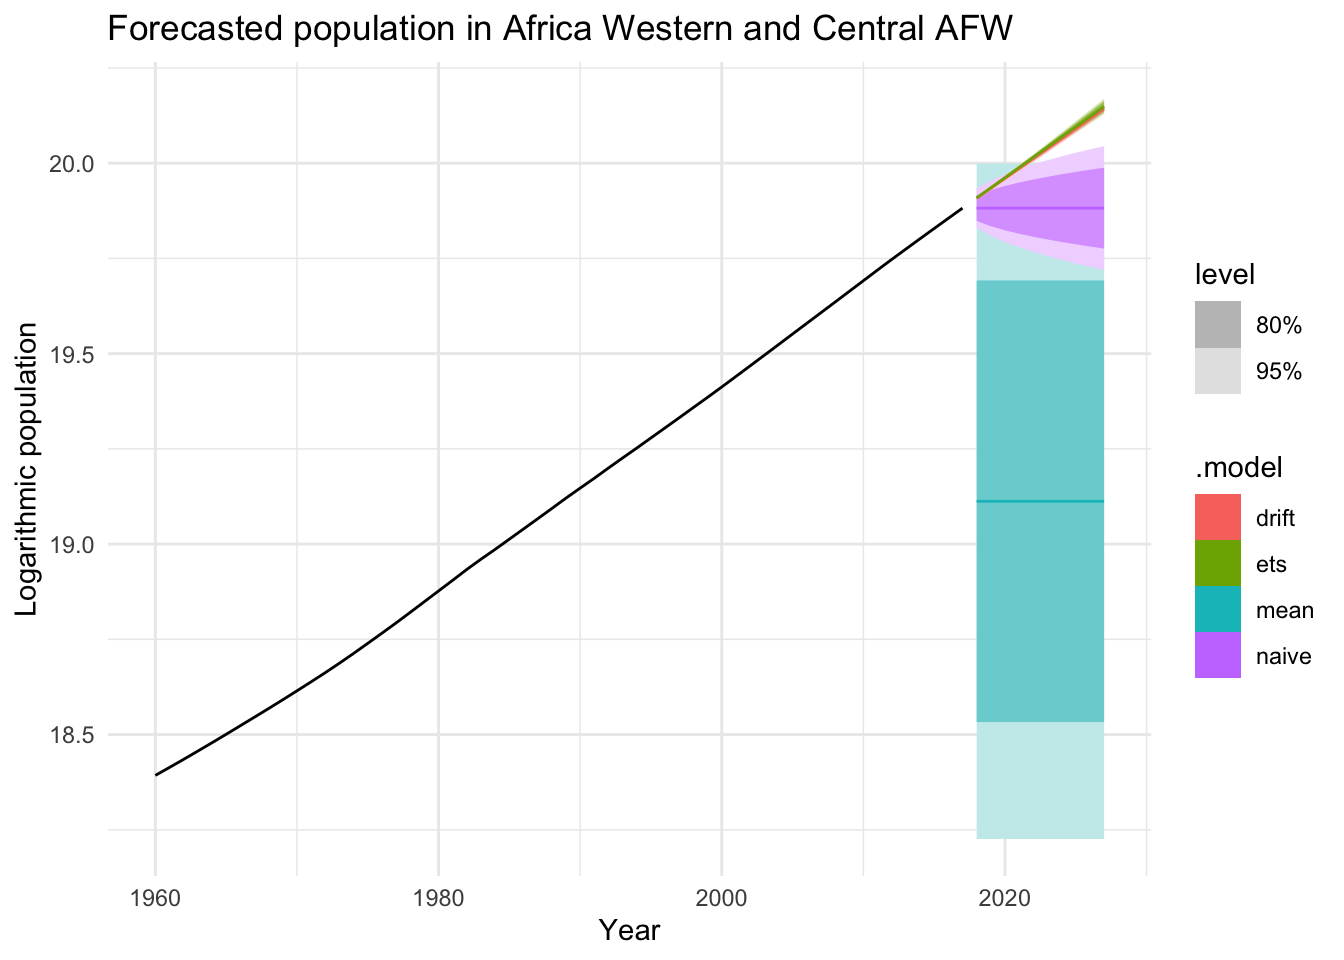
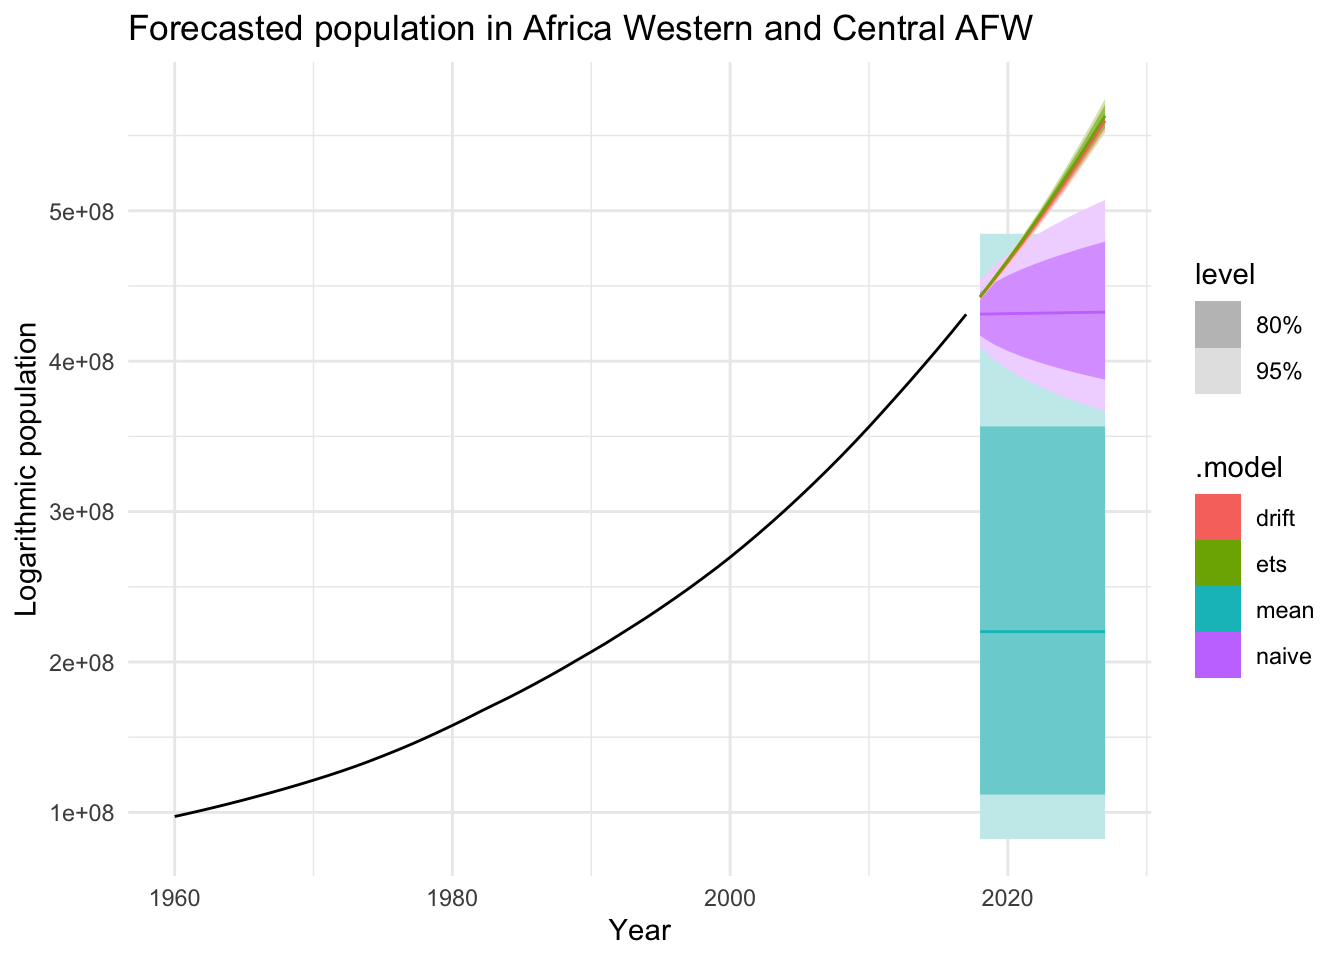
Corrections to model made

diff --git a/Assignment3_5550_Arindom_32779267.qmdqmd.html b/Assignment3_5550_Arindom_32779267.qmdqmd.html
@@ -219,10 +219,8 @@ Key takeaway
 <div class="cell">
 <details>
 <summary>Code</summary>
-<div class="sourceCode cell-code" id="cb4"><pre class="sourceCode r code-with-copy"><code class="sourceCode r"><span id="cb4-1"><a href="#cb4-1" aria-hidden="true" tabindex="-1"></a>pop_log <span class="ot">&lt;-</span> pop <span class="sc">%&gt;%</span> <span class="fu">mutate</span>(<span class="at">Log_population =</span> <span class="fu">log</span>(Population))</span>
-<span id="cb4-2"><a href="#cb4-2" aria-hidden="true" tabindex="-1"></a></span>
-<span id="cb4-3"><a href="#cb4-3" aria-hidden="true" tabindex="-1"></a>pop_log <span class="sc">%&gt;%</span> <span class="fu">autoplot</span>(Log_population) <span class="sc">+</span> <span class="fu">theme_minimal</span>() <span class="sc">+</span> </span>
-<span id="cb4-4"><a href="#cb4-4" aria-hidden="true" tabindex="-1"></a>  <span class="fu">labs</span>(<span class="at">title =</span> <span class="st">"Logarithmic population growth in Africa Western and Central AFW"</span>,<span class="at">y =</span> <span class="st">"Log of population"</span>)</span></code><button title="Copy to Clipboard" class="code-copy-button"><i class="bi"></i></button></pre></div>
+<div class="sourceCode cell-code" id="cb4"><pre class="sourceCode r code-with-copy"><code class="sourceCode r"><span id="cb4-1"><a href="#cb4-1" aria-hidden="true" tabindex="-1"></a>pop <span class="sc">%&gt;%</span> <span class="fu">autoplot</span>(<span class="fu">log</span>(Population)) <span class="sc">+</span> <span class="fu">theme_minimal</span>() <span class="sc">+</span> </span>
+<span id="cb4-2"><a href="#cb4-2" aria-hidden="true" tabindex="-1"></a>  <span class="fu">labs</span>(<span class="at">title =</span> <span class="st">"Logarithmic population growth in Africa Western and Central AFW"</span>,<span class="at">y =</span> <span class="st">"Log of population"</span>)</span></code><button title="Copy to Clipboard" class="code-copy-button"><i class="bi"></i></button></pre></div>
 </details>
 <div class="cell-output-display">
 <div id="fig-totpoplog" class="quarto-figure quarto-figure-center anchored">
@@ -242,8 +240,8 @@ Key takeaway
 <div class="cell">
 <details>
 <summary>Code</summary>
-<div class="sourceCode cell-code" id="cb5"><pre class="sourceCode r code-with-copy"><code class="sourceCode r"><span id="cb5-1"><a href="#cb5-1" aria-hidden="true" tabindex="-1"></a>pop_train <span class="ot">&lt;-</span> pop_log <span class="sc">%&gt;%</span> <span class="fu">filter</span>(Year <span class="sc">&lt;</span> <span class="dv">2018</span>) <span class="sc">%&gt;%</span> <span class="fu">select</span>(<span class="sc">-</span>Population) <span class="co"># Train dataset</span></span>
-<span id="cb5-2"><a href="#cb5-2" aria-hidden="true" tabindex="-1"></a>pop_test <span class="ot">&lt;-</span> pop_log <span class="sc">%&gt;%</span> <span class="fu">filter</span>(Year <span class="sc">&gt;=</span> <span class="dv">2018</span>) <span class="sc">%&gt;%</span> <span class="fu">select</span>(<span class="sc">-</span>Population) <span class="co"># Test dataset</span></span></code><button title="Copy to Clipboard" class="code-copy-button"><i class="bi"></i></button></pre></div>
+<div class="sourceCode cell-code" id="cb5"><pre class="sourceCode r code-with-copy"><code class="sourceCode r"><span id="cb5-1"><a href="#cb5-1" aria-hidden="true" tabindex="-1"></a>pop_train <span class="ot">&lt;-</span> pop <span class="sc">%&gt;%</span> <span class="fu">filter</span>(Year <span class="sc">&lt;</span> <span class="dv">2018</span>) <span class="co"># Train dataset</span></span>
+<span id="cb5-2"><a href="#cb5-2" aria-hidden="true" tabindex="-1"></a>pop_test <span class="ot">&lt;-</span> pop <span class="sc">%&gt;%</span> <span class="fu">filter</span>(Year <span class="sc">&gt;=</span> <span class="dv">2018</span>) <span class="co"># Test dataset</span></span></code><button title="Copy to Clipboard" class="code-copy-button"><i class="bi"></i></button></pre></div>
 </details>
 </div>
 <p>Now that we have transformed our data and split it based on training and testing dataset, we will utilise the benchmark models to forecast the logarithmic population growth. The models which will be used are as follows:</p>
@@ -257,10 +255,10 @@ Key takeaway
 <div class="cell">
 <details>
 <summary>Code</summary>
-<div class="sourceCode cell-code" id="cb6"><pre class="sourceCode r code-with-copy"><code class="sourceCode r"><span id="cb6-1"><a href="#cb6-1" aria-hidden="true" tabindex="-1"></a>model_fit <span class="ot">&lt;-</span> pop_train <span class="sc">%&gt;%</span> <span class="fu">model</span>(<span class="at">ets =</span> <span class="fu">ETS</span>(Log_population), <span class="co"># ETS Model</span></span>
-<span id="cb6-2"><a href="#cb6-2" aria-hidden="true" tabindex="-1"></a>                    <span class="at">naive =</span> <span class="fu">NAIVE</span>(Log_population), <span class="co"># Naïve model</span></span>
-<span id="cb6-3"><a href="#cb6-3" aria-hidden="true" tabindex="-1"></a>                    <span class="at">mean =</span> <span class="fu">MEAN</span>(Log_population), <span class="co"># Mean model</span></span>
-<span id="cb6-4"><a href="#cb6-4" aria-hidden="true" tabindex="-1"></a>                    <span class="at">drift =</span> <span class="fu">RW</span>(Log_population <span class="sc">~</span> <span class="fu">drift</span>())) <span class="co"># Drift model</span></span></code><button title="Copy to Clipboard" class="code-copy-button"><i class="bi"></i></button></pre></div>
+<div class="sourceCode cell-code" id="cb6"><pre class="sourceCode r code-with-copy"><code class="sourceCode r"><span id="cb6-1"><a href="#cb6-1" aria-hidden="true" tabindex="-1"></a>model_fit <span class="ot">&lt;-</span> pop_train <span class="sc">%&gt;%</span> <span class="fu">model</span>(<span class="at">ets =</span> <span class="fu">ETS</span>(<span class="fu">log</span>(Population)), <span class="co"># ETS Model</span></span>
+<span id="cb6-2"><a href="#cb6-2" aria-hidden="true" tabindex="-1"></a>                    <span class="at">naive =</span> <span class="fu">NAIVE</span>(<span class="fu">log</span>(Population)), <span class="co"># Naïve model</span></span>
+<span id="cb6-3"><a href="#cb6-3" aria-hidden="true" tabindex="-1"></a>                    <span class="at">mean =</span> <span class="fu">MEAN</span>(<span class="fu">log</span>(Population)), <span class="co"># Mean model</span></span>
+<span id="cb6-4"><a href="#cb6-4" aria-hidden="true" tabindex="-1"></a>                    <span class="at">drift =</span> <span class="fu">RW</span>(<span class="fu">log</span>(Population) <span class="sc">~</span> <span class="fu">drift</span>())) <span class="co"># Drift model</span></span></code><button title="Copy to Clipboard" class="code-copy-button"><i class="bi"></i></button></pre></div>
 </details>
 </div>
 <p>Once we have fitted our training data on the ETS model and the benchmark models, we will check the peformance of each of these models.</p>
@@ -291,28 +289,28 @@ Key takeaway
 <td style="text-align: left;">drift</td>
 <td style="text-align: left;">Africa Western and Central</td>
 <td style="text-align: left;">Test</td>
-<td style="text-align: right;">0.0001676</td>
+<td style="text-align: right;">73304.74</td>
 <td style="text-align: right;">-0.5</td>
 </tr>
 <tr class="even">
 <td style="text-align: left;">ets</td>
 <td style="text-align: left;">Africa Western and Central</td>
 <td style="text-align: left;">Test</td>
-<td style="text-align: right;">0.0007952</td>
+<td style="text-align: right;">360711.84</td>
 <td style="text-align: right;">-0.5</td>
 </tr>
 <tr class="odd">
 <td style="text-align: left;">naive</td>
 <td style="text-align: left;">Africa Western and Central</td>
 <td style="text-align: left;">Test</td>
-<td style="text-align: right;">0.0414338</td>
+<td style="text-align: right;">18057512.79</td>
 <td style="text-align: right;">-0.5</td>
 </tr>
 <tr class="even">
 <td style="text-align: left;">mean</td>
 <td style="text-align: left;">Africa Western and Central</td>
 <td style="text-align: left;">Test</td>
-<td style="text-align: right;">0.8089472</td>
+<td style="text-align: right;">228394880.47</td>
 <td style="text-align: right;">-0.5</td>
 </tr>
 </tbody>
@@ -360,12 +358,12 @@ Key takeaway
 <div class="sourceCode cell-code" id="cb9"><pre class="sourceCode r code-with-copy"><code class="sourceCode r"><span id="cb9-1"><a href="#cb9-1" aria-hidden="true" tabindex="-1"></a><span class="co"># ljung box test</span></span>
 <span id="cb9-2"><a href="#cb9-2" aria-hidden="true" tabindex="-1"></a></span>
 <span id="cb9-3"><a href="#cb9-3" aria-hidden="true" tabindex="-1"></a><span class="fu">augment</span>(model_fit) <span class="sc">%&gt;%</span></span>
-<span id="cb9-4"><a href="#cb9-4" aria-hidden="true" tabindex="-1"></a>  <span class="fu">features</span>(.resid,ljung_box) <span class="sc">%&gt;%</span> <span class="fu">kbl</span>()</span></code><button title="Copy to Clipboard" class="code-copy-button"><i class="bi"></i></button></pre></div>
+<span id="cb9-4"><a href="#cb9-4" aria-hidden="true" tabindex="-1"></a>  <span class="fu">features</span>(.resid,ljung_box,<span class="at">lag =</span> <span class="dv">10</span>) <span class="sc">%&gt;%</span> <span class="fu">kbl</span>() <span class="co"># Lag = 10 chosen due to non-seasonal data</span></span></code><button title="Copy to Clipboard" class="code-copy-button"><i class="bi"></i></button></pre></div>
 </details>
 <div class="cell-output-display">
 <div id="tbl-lb" class="anchored">
 <table data-quarto-postprocess="true" class="table table-sm table-striped small">
-<caption>Table&nbsp;3: Ljung-Box test results for the model residuals</caption>
+<caption>Table&nbsp;3: Ljung-Box test results with lag=10 for the model residuals</caption>
 <thead>
 <tr class="header">
 <th style="text-align: left;" data-quarto-table-cell-role="th">Country</th>
@@ -378,25 +376,25 @@ Key takeaway
 <tr class="odd">
 <td style="text-align: left;">Africa Western and Central</td>
 <td style="text-align: left;">drift</td>
-<td style="text-align: right;">50.443880</td>
+<td style="text-align: right;">243.09252</td>
 <td style="text-align: right;">0.0000000</td>
 </tr>
 <tr class="even">
 <td style="text-align: left;">Africa Western and Central</td>
 <td style="text-align: left;">ets</td>
-<td style="text-align: right;">1.948661</td>
-<td style="text-align: right;">0.1627312</td>
+<td style="text-align: right;">23.01567</td>
+<td style="text-align: right;">0.0106889</td>
 </tr>
 <tr class="odd">
 <td style="text-align: left;">Africa Western and Central</td>
 <td style="text-align: left;">mean</td>
-<td style="text-align: right;">55.087303</td>
+<td style="text-align: right;">333.18777</td>
 <td style="text-align: right;">0.0000000</td>
 </tr>
 <tr class="even">
 <td style="text-align: left;">Africa Western and Central</td>
 <td style="text-align: left;">naive</td>
-<td style="text-align: right;">50.443880</td>
+<td style="text-align: right;">330.20860</td>
 <td style="text-align: right;">0.0000000</td>
 </tr>
 </tbody>
@@ -456,10 +454,10 @@ Key takeaway
 <details>
 <summary>Code</summary>
 <div class="sourceCode cell-code" id="cb11"><pre class="sourceCode r code-with-copy"><code class="sourceCode r"><span id="cb11-1"><a href="#cb11-1" aria-hidden="true" tabindex="-1"></a>pop_train <span class="sc">%&gt;%</span> <span class="fu">stretch_tsibble</span>(<span class="at">.init =</span> <span class="dv">15</span>,<span class="at">.step =</span> <span class="dv">1</span>) <span class="sc">%&gt;%</span> </span>
-<span id="cb11-2"><a href="#cb11-2" aria-hidden="true" tabindex="-1"></a>                    <span class="fu">model</span>(<span class="at">ets =</span> <span class="fu">ETS</span>(Log_population), <span class="co"># ETS Model</span></span>
-<span id="cb11-3"><a href="#cb11-3" aria-hidden="true" tabindex="-1"></a>                    <span class="at">naive =</span> <span class="fu">NAIVE</span>(Log_population), <span class="co"># Naïve model</span></span>
-<span id="cb11-4"><a href="#cb11-4" aria-hidden="true" tabindex="-1"></a>                    <span class="at">mean =</span> <span class="fu">MEAN</span>(Log_population), <span class="co"># Mean model</span></span>
-<span id="cb11-5"><a href="#cb11-5" aria-hidden="true" tabindex="-1"></a>                    <span class="at">drift =</span> <span class="fu">RW</span>(Log_population <span class="sc">~</span> <span class="fu">drift</span>())) <span class="sc">%&gt;%</span> <span class="co"># Drift model</span></span>
+<span id="cb11-2"><a href="#cb11-2" aria-hidden="true" tabindex="-1"></a>                    <span class="fu">model</span>(<span class="at">ets =</span> <span class="fu">ETS</span>(<span class="fu">log</span>(Population)), <span class="co"># ETS Model</span></span>
+<span id="cb11-3"><a href="#cb11-3" aria-hidden="true" tabindex="-1"></a>                    <span class="at">naive =</span> <span class="fu">NAIVE</span>(<span class="fu">log</span>(Population)), <span class="co"># Naïve model</span></span>
+<span id="cb11-4"><a href="#cb11-4" aria-hidden="true" tabindex="-1"></a>                    <span class="at">mean =</span> <span class="fu">MEAN</span>(<span class="fu">log</span>(Population)), <span class="co"># Mean model</span></span>
+<span id="cb11-5"><a href="#cb11-5" aria-hidden="true" tabindex="-1"></a>                    <span class="at">drift =</span> <span class="fu">RW</span>(<span class="fu">log</span>(Population))) <span class="sc">%&gt;%</span> <span class="co"># Drift model</span></span>
 <span id="cb11-6"><a href="#cb11-6" aria-hidden="true" tabindex="-1"></a>                             <span class="fu">forecast</span>(<span class="at">h =</span> <span class="st">"5 years"</span>) <span class="sc">%&gt;%</span> <span class="fu">accuracy</span>(pop_test) <span class="sc">%&gt;%</span> <span class="fu">arrange</span>(RMSE) <span class="sc">%&gt;%</span> <span class="fu">select</span>(<span class="sc">-</span><span class="fu">c</span>(ME,MAE,MPE,MAPE,MASE,RMSSE)) <span class="sc">%&gt;%</span> <span class="fu">kbl</span>()</span></code><button title="Copy to Clipboard" class="code-copy-button"><i class="bi"></i></button></pre></div>
 </details>
 <div class="cell-output-display">
@@ -477,32 +475,32 @@ Key takeaway
 </thead>
 <tbody>
 <tr class="odd">
-<td style="text-align: left;">drift</td>
-<td style="text-align: left;">Africa Western and Central</td>
-<td style="text-align: left;">Test</td>
-<td style="text-align: right;">0.0015133</td>
-<td style="text-align: right;">0.5223186</td>
-</tr>
-<tr class="even">
 <td style="text-align: left;">ets</td>
 <td style="text-align: left;">Africa Western and Central</td>
 <td style="text-align: left;">Test</td>
-<td style="text-align: right;">0.0024232</td>
-<td style="text-align: right;">0.2213413</td>
+<td style="text-align: right;">1146247</td>
+<td style="text-align: right;">0.2254617</td>
+</tr>
+<tr class="even">
+<td style="text-align: left;">drift</td>
+<td style="text-align: left;">Africa Western and Central</td>
+<td style="text-align: left;">Test</td>
+<td style="text-align: right;">43950684</td>
+<td style="text-align: right;">0.2080688</td>
 </tr>
 <tr class="odd">
 <td style="text-align: left;">naive</td>
 <td style="text-align: left;">Africa Western and Central</td>
 <td style="text-align: left;">Test</td>
-<td style="text-align: right;">0.1018618</td>
-<td style="text-align: right;">0.2379438</td>
+<td style="text-align: right;">43950684</td>
+<td style="text-align: right;">0.2080688</td>
 </tr>
 <tr class="even">
 <td style="text-align: left;">mean</td>
 <td style="text-align: left;">Africa Western and Central</td>
 <td style="text-align: left;">Test</td>
-<td style="text-align: right;">0.8487165</td>
-<td style="text-align: right;">0.1383483</td>
+<td style="text-align: right;">243400574</td>
+<td style="text-align: right;">0.1867781</td>
 </tr>
 </tbody>
 </table>
@@ -521,8 +519,8 @@ Key takeaway
 </div>
 </div>
 <div class="callout-body-container callout-body">
-<p>After performing cross-validation of the data and obtaining the model metrics as illustrated by <a href="#tbl-cv">Table&nbsp;4</a>, <strong>we observe that the drift model remains the one that performs the best followed by the ETS model.</strong></p>
-<p>This indicates that <strong>even with the implementation of the cross-validation, the drift model is observed to train itself better due to the availability of more data and outperform the ETS model similar to what was observed in <a href="#sec-initial">Section&nbsp;3.1</a> .</strong></p>
+<p>After performing cross-validation of the data and obtaining the model metrics as illustrated by <a href="#tbl-cv">Table&nbsp;4</a>, <strong>we observe that the ETS model is the one that performs the best followed by the drift model.</strong></p>
+<p>This indicates that <strong>with the implementation of the cross-validation, the ETS model is observed to train itself better due to the availability of more train/test data and outperform the drift model which was observed to be the best in <a href="#sec-initial">Section&nbsp;3.1</a> .</strong></p>
 </div>
 </div>
 </section>
